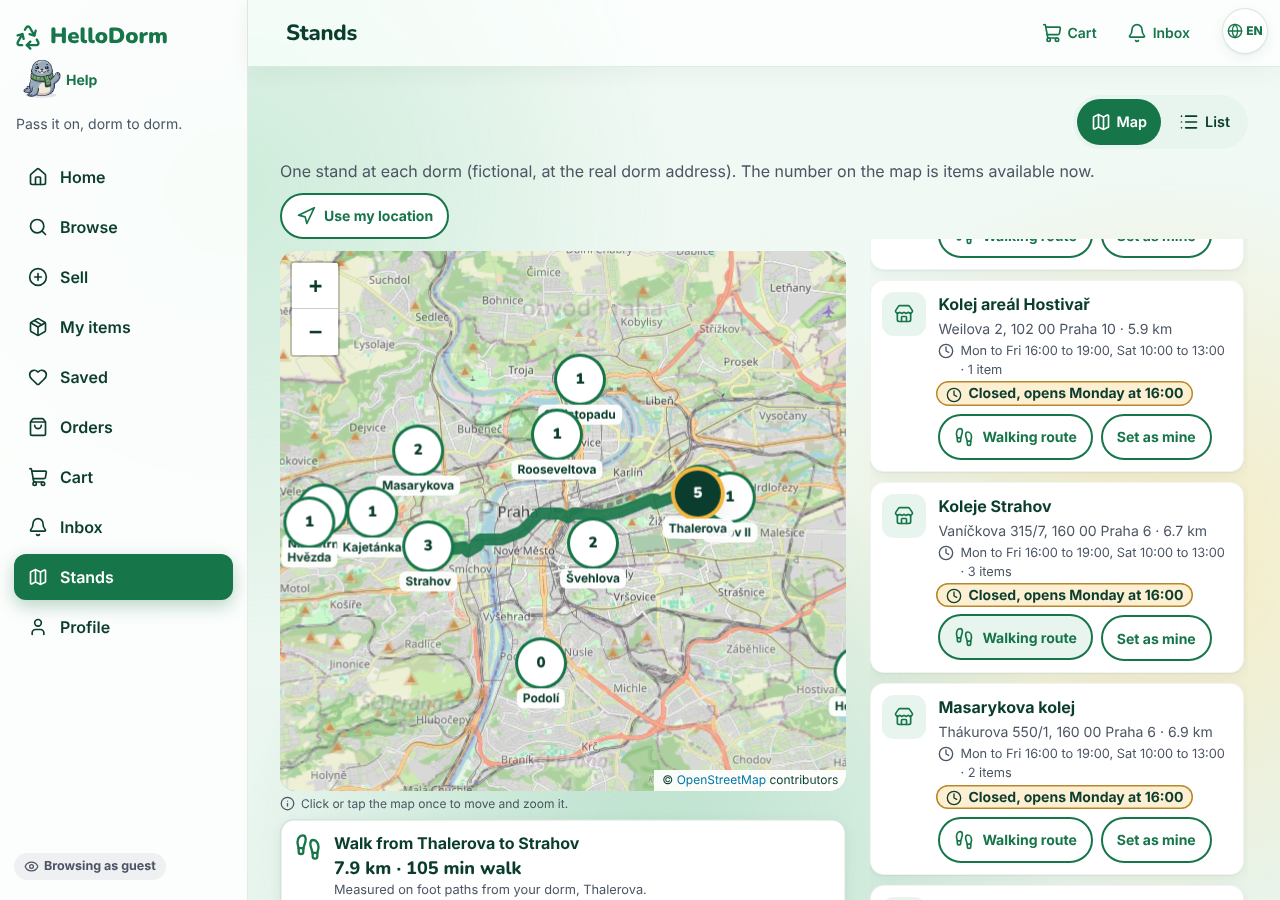
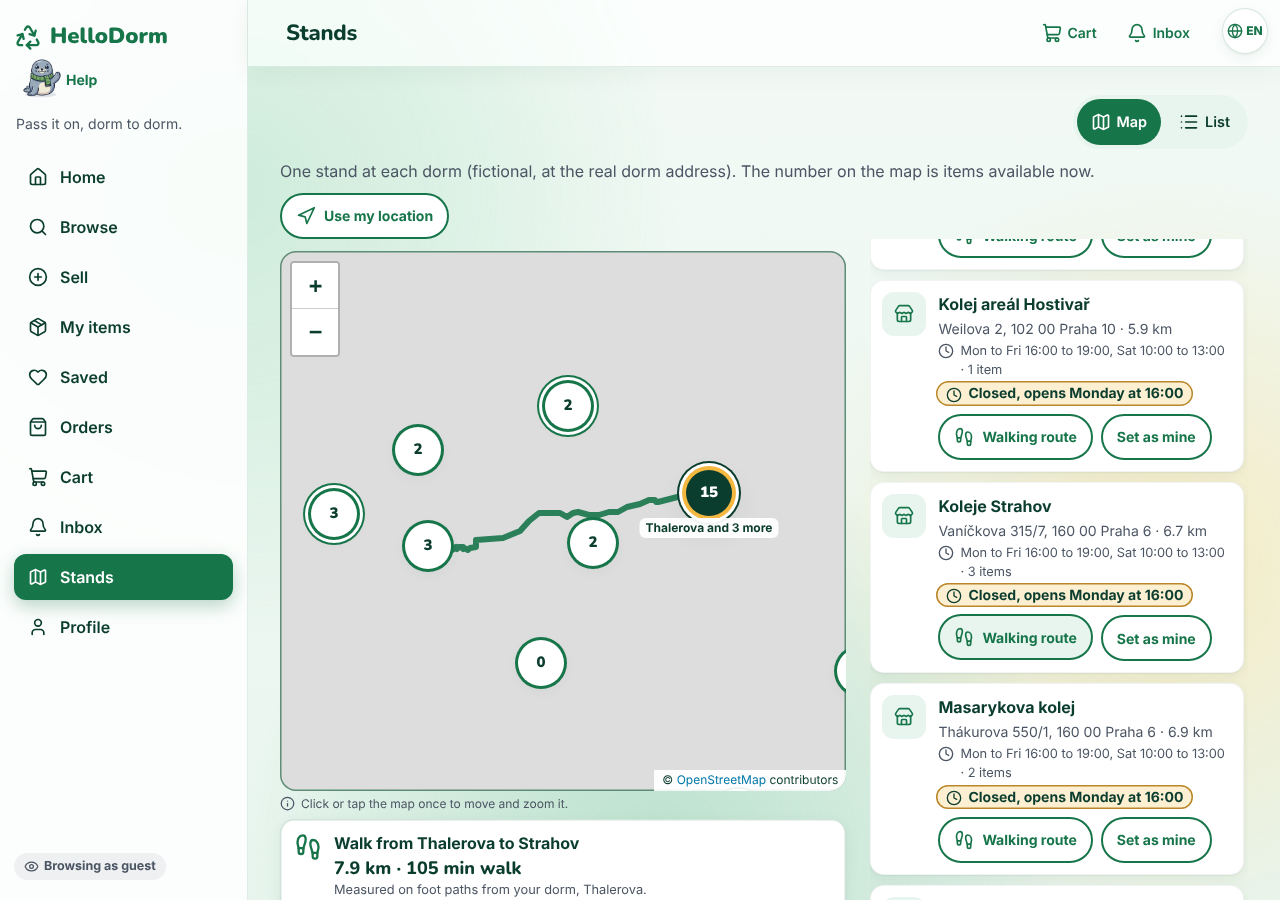
Round 5: fresh eyes fixes (pin grouping, burst behind text, hold until the stand closes), docs and test results
Reviewer scores 41 then 42 of 60 (one fix round, then stop). All checks 0; test-round5 52 of 52.

Claude-Session: https://claude.ai/code/session_012z3WjMXaMaCLVMsSRjQa6U

Changed region(s): [[0.2188, 0.28, 0.6875, 0.9022]]

diff --git a/v3/app.js b/v3/app.js
@@ -107,8 +107,16 @@ function fmtDist(m) {
 function fmtLeft(ms) {
   if (ms <= 0) return t('time_up');
   const h = Math.floor(ms / HOUR), m = Math.floor((ms % HOUR) / MIN);
-  if (h >= 24) return t('left_dh', { d: Math.floor(h / 24), h: h % 24 });
-  return t('left_hm', { h, m });
+  // v3: a number and its unit never break apart ("1 day 13 h", never "13" and "h" on two lines).
+  const nb = (x) => x.replace(/(\d) /g, '$1\u00a0');
+  if (h >= 24) return nb(t('left_dh', { d: Math.floor(h / 24), h: h % 24 }));
+  return nb(t('left_hm', { h, m }));
+}
+// v3: a reservation is held 48 hours, and always at least until the end of the next pickup window, so the hold never
+// runs out before the stand opens (fresh eyes review, 7 Nov 2026: "held 1 day 13 h" while "pickup opens in 1 day 18 h").
+function holdUntil(from = now()) {
+  const w = nextWindow(from + 1);
+  return Math.max(from + HOLD_H * HOUR, w ? w.end : 0);
 }
 function fmtAgo(ms) {
   const m = Math.max(1, Math.round(ms / MIN));
@@ -761,7 +769,7 @@ function maybeWelcome() {
     </div>
     <button class="btn ghost wide" data-act="ws-go" data-to="home">${t('ws_later')}</button>
   </div>`, 'ws-sheet');
-  if (!reduced) import('./fireworks.js').then((m) => { if (S.welcomeOpen) S.fw = m.fireworks(document.body); }).catch(() => {});
+  if (!reduced) import('./fireworks.js').then((m) => { if (S.welcomeOpen) S.fw = m.fireworks($('#modal .sheet') || document.body); }).catch(() => {});
   return true;
 }
 async function doSignin(e) {
@@ -1209,7 +1217,7 @@ async function doCheckout(arg, form, method = 'demo') {
         if (x.status === 'sold' || (x.status === 'reserved' && x.until > n && x.by !== u)) bad.push(lines[i].id);
       });
       if (bad.length) return bad;
-      lines.forEach((it) => tx.set(doc(db, 'shop', it.id), { status: 'reserved', by: u, until: n + HOLD_H * HOUR }));
+      lines.forEach((it) => tx.set(doc(db, 'shop', it.id), { status: 'reserved', by: u, until: holdUntil(n) }));
       return [];
     });
     if (taken.length) {
@@ -1226,7 +1234,7 @@ async function doCheckout(arg, form, method = 'demo') {
       const its = lines.filter((x) => x.dorm === dm).map((x) => ({ id: x.id, title: x.title, cat: x.cat, price: x.price, photoId: x.id }));
       const ref = await addDoc(collection(db, 'users', u, 'orders'), {
         group, dorm: dm, code: code('P'), items: its, total: its.reduce((s, x) => s + x.price, 0),
-        status: 'reserved', reservedAt: n, expiresAt: n + HOLD_H * HOUR,
+        status: 'reserved', reservedAt: n, expiresAt: holdUntil(n),
         paid: method === 'demo', payMethod: method, ...(method === 'demo' ? { paidAt: n } : {}),
       });
       ids.push(ref.id);
@@ -2031,7 +2039,7 @@ async function seedDemo(u, lang, guest = {}, count = true) {
   b.set(doc(collection(db, 'users', u, 'orders')), {
     group: code('G'), dorm: 'thaler', code: code('P'), total: 290,
     items: [{ id: 'demo-lamp', photoId: 'e1', title: { en: 'Reading lamp (demo order)', cs: 'Lampička na čtení (ukázková objednávka)' }, cat: 'electronics', price: 290 }],
-    status: 'reserved', reservedAt: n - 10 * HOUR, expiresAt: n + 38 * HOUR,
+    status: 'reserved', reservedAt: n - 10 * HOUR, expiresAt: Math.max(n + 38 * HOUR, (nextWindow(n + 1) || { end: 0 }).end), // demo: held at least until the next pickup window ends
   });
   const notes = collection(db, 'users', u, 'notes');
   b.set(doc(notes), { type: 'offer', p: { title: lang === 'cs' ? 'Kancelářská židle' : 'Office chair', price: 230, stand: 'thaler' }, read: false, at: n - 1 * DAY });

diff --git a/v3/stands.js b/v3/stands.js
@@ -94,12 +94,36 @@ async function initStandsMap() {
     S.liveMap = live; el.hdMap = map; // hdMap: lets the checks read the zoom level
     DORMS.forEach((d) => {
       const me = d.id === S.prof.dorm;
-      const m = L.marker([d.lat, d.lon], { icon: M.pinIcon(L, { n: standCount(d.id), me, label: esc(d.short) }), title: d.name, alt: d.name, keyboard: true, riseOnHover: true, zIndexOffset: me ? 1000 : 0 }).addTo(map);
+      const m = L.marker([d.lat, d.lon], { icon: M.pinIcon(L, { n: standCount(d.id), me, label: esc(d.short) }), title: d.name, alt: d.name, keyboard: true, riseOnHover: true, zIndexOffset: me ? 1000 : 0 });
       m.bindPopup(() => standPopup(d), { autoPanPaddingTopLeft: L.point(72, 124), autoPanPaddingBottomRight: L.point(16, 44), maxWidth: 260, minWidth: 200 });
       live.markers[d.id] = m;
     });
+    // v3 (fresh eyes review): stands closer than 64 px on screen are shown as one bubble with their total items, so pins
+    // and names never pile up; a tap on a bubble zooms in until the stands separate.
+    const layer = L.layerGroup().addTo(map);
+    const regroup = () => {
+      layer.clearLayers();
+      // At the city overview only my dorm's name shows; every name returns from zoom 13 (popups and the list always name them).
+      el.classList.toggle('z-low', map.getZoom() < 13);
+      const pts = DORMS.map((d) => ({ d, p: map.latLngToLayerPoint([d.lat, d.lon]) })), used = new Set();
+      pts.forEach((a) => {
+        if (used.has(a.d.id)) return;
+        const g = pts.filter((x) => !used.has(x.d.id) && a.p.distanceTo(x.p) < 64);
+        g.forEach((x) => used.add(x.d.id));
+        if (g.length === 1) { layer.addLayer(live.markers[a.d.id]); return; }
+        const me = g.some((x) => x.d.id === S.prof.dorm), lead = g.find((x) => x.d.id === S.prof.dorm) || g[0];
+        const n = g.reduce((sum, x) => sum + standCount(x.d.id), 0);
+        const c = L.marker([g.reduce((v, x) => v + x.d.lat, 0) / g.length, g.reduce((v, x) => v + x.d.lon, 0) / g.length], {
+          icon: M.pinIcon(L, { n, me, group: g.length, label: esc(t('group_label', { d: lead.d.short, n: g.length - 1 })) }),
+          title: g.map((x) => x.d.name).join(', '), alt: t('group_alt', { n: g.length }), keyboard: true, zIndexOffset: me ? 1000 : 0 });
+        c.on('click', () => map.fitBounds(g.map((x) => [x.d.lat, x.d.lon]), { padding: [70, 70], maxZoom: 17 }));
+        layer.addLayer(c);
+      });
+    };
+    map.on('zoomend', regroup);
     if (S.pos) L.circleMarker([S.pos.lat, S.pos.lon], { radius: 9, color: '#0B3D2E', weight: 3, fillColor: '#F4B740', fillOpacity: 1 }).addTo(map).bindTooltip(t('you_are_here'));
     map.fitBounds(DORMS.map((d) => [d.lat, d.lon]), { padding: [28, 28] });
+    regroup();
     if (S.routeTo) { const id = S.routeTo; S.routeTo = null; routeTo(dormById(id), $('#routePanel'), live); }
   } catch (e) { fallback(); }
 }

diff --git a/v3/fireworks.js b/v3/fireworks.js
@@ -5,23 +5,27 @@
 const COLOURS = ['#17754A', '#2E9A66', '#0F5C39', '#7CC9A0', '#B8E3CB', '#F4B740'];
 export const MAX_MS = 2400;
 
+// host: where the burst is drawn. Inside the welcome card (v3 fresh eyes review) the canvas sits BEHIND the text,
+// so the words stay readable during the burst; with document.body it covers the screen.
 export function fireworks(host = document.body) {
   const c = document.createElement('canvas');
-  c.className = 'fw-canvas';
+  const inBox = host !== document.body;
+  c.className = 'fw-canvas' + (inBox ? ' in-box' : '');
+  const W = () => (inBox ? host.clientWidth : innerWidth), Hh = () => (inBox ? host.clientHeight : innerHeight);
   c.setAttribute('aria-hidden', 'true');
   host.appendChild(c);
   const ctx = c.getContext('2d');
   const dpr = Math.min(2, window.devicePixelRatio || 1);
-  const size = () => { c.width = innerWidth * dpr; c.height = innerHeight * dpr; c.style.width = innerWidth + 'px'; c.style.height = innerHeight + 'px'; ctx.setTransform(dpr, 0, 0, dpr, 0, 0); };
+  const size = () => { c.width = W() * dpr; c.height = Hh() * dpr; c.style.width = W() + 'px'; c.style.height = Hh() + 'px'; ctx.setTransform(dpr, 0, 0, dpr, 0, 0); };
   size();
   const parts = [];
   // Three bursts, a short time apart, around the top half of the screen.
-  const bursts = [[0.5, 0.32, 0], [0.24, 0.24, 260], [0.76, 0.26, 480]];
+  const bursts = inBox ? [[0.5, 0.16, 0], [0.18, 0.12, 260], [0.82, 0.14, 480]] : [[0.5, 0.32, 0], [0.24, 0.24, 260], [0.76, 0.26, 480]];
   const t0 = performance.now();
   const fired = new Set();
   let raf = 0, done = false;
   function fire(fx, fy) {
-    const x = innerWidth * fx, y = innerHeight * fy, n = 46;
+    const x = W() * fx, y = Hh() * fy, n = 46;
     for (let i = 0; i < n; i++) {
       const a = (Math.PI * 2 * i) / n + Math.random() * 0.2, v = 2.2 + Math.random() * 3.2;
       parts.push({ x, y, vx: Math.cos(a) * v, vy: Math.sin(a) * v, life: 1, r: 2 + Math.random() * 2.5, col: COLOURS[(Math.random() * COLOURS.length) | 0], leaf: Math.random() < 0.3, rot: Math.random() * 6 });
@@ -30,7 +34,7 @@ export function fireworks(host = document.body) {
   function frame(now) {
     const el = now - t0;
     bursts.forEach(([fx, fy, at], i) => { if (el >= at && !fired.has(i)) { fired.add(i); fire(fx, fy); } });
-    ctx.clearRect(0, 0, innerWidth, innerHeight);
+    ctx.clearRect(0, 0, W(), Hh());
     for (const p of parts) {
       p.x += p.vx; p.y += p.vy; p.vy += 0.06; p.vx *= 0.985; p.vy *= 0.985; p.life -= 0.012; p.rot += 0.08;
       if (p.life <= 0) continue;

diff --git a/v3/texts.js b/v3/texts.js
@@ -735,6 +735,8 @@ export const TEXTS = {
   map_credit_route: { en: 'Routing: FOSSGIS OSRM', cs: 'Trasy: FOSSGIS OSRM' },
   map_fallback:     { en: 'The street map could not load right now, so this is our simple drawn map (north at the top, the blue line is the Vltava).', cs: 'Mapa ulic se teď nenačetla, proto je tu naše jednoduchá kreslená mapa (sever nahoře, modrá čára je Vltava).' },
   walk_route:       { en: 'Walking route', cs: 'Trasa pěšky' },
+  group_label:      { en: '{d} and {n} more', cs: '{d} a další {n}' },
+  group_alt:        { en: '{n} stands close together, tap to zoom in', cs: '{n|stánek|stánky|stánků} blízko sebe, klepni pro přiblížení' },
   see_items:        { en: 'See items', cs: 'Zobrazit věci' },
   route_hint:       { en: 'Tap Walking route on a stand to see the way from your dorm, with distance and minutes.', cs: 'Klepni na Trasa pěšky u stánku a uvidíš cestu ze své koleje, se vzdáleností a minutami.' },
   route_finding:    { en: 'Finding the walking route from {a} to {b}…', cs: 'Hledám trasu pěšky z {a} do {b}…' },

diff --git a/v3/styles.css b/v3/styles.css
@@ -1100,3 +1100,11 @@ body.modal-open { position: fixed; left: 0; right: 0; overflow: hidden; width: 1
 .acct-btns .btn > span { min-width: 0; }
 .set-row label { min-width: 0; flex-wrap: wrap; }
 .set-row label input { min-width: 150px; min-height: 46px; }
+/* v3 (fresh eyes review): a bubble for nearby stands has a second ring, so it reads as "several". */
+.lpin.group { box-shadow: 0 0 0 3px var(--green), 0 0 0 6px var(--white), 0 0 0 8px var(--green), var(--sh-1); }
+.lpin.me.group { box-shadow: 0 0 0 4px var(--sun), 0 0 0 7px var(--white), 0 0 0 9px var(--ink), var(--sh-2); }
+/* v3 (fresh eyes review): the burst is drawn inside the welcome card, behind its text. */
+.fw-canvas.in-box { position: absolute; inset: 0; z-index: 0; border-radius: inherit; }
+.ws-sheet .sheet-body { position: relative; z-index: 1; }
+.real-map.z-low .lpin-l { display: none; }
+.real-map.z-low .lpin.me + .lpin-l { display: block; }

diff --git a/v3/map.js b/v3/map.js
@@ -55,10 +55,11 @@ export async function makeMap(el, { center, zoom = 12, onFail, hint } = {}) {
 }
 
 // A stand pin: a round label with the number of items waiting there; the user's own dorm is larger and dark.
-export function pinIcon(L, { n, me, label }) {
+// group = how many stands one bubble stands for (nearby stands at a low zoom); drawn with a second ring.
+export function pinIcon(L, { n, me, label, group = 1 }) {
   return L.divIcon({
     className: 'lpin-wrap',
-    html: `<span class="lpin ${me ? 'me' : ''}"><b>${n}</b></span><span class="lpin-l">${label}</span>`,
+    html: `<span class="lpin ${me ? 'me' : ''} ${group > 1 ? 'group' : ''}" data-stands="${group}"><b>${n}</b></span><span class="lpin-l">${label}</span>`,
     iconSize: [46, 46], iconAnchor: [23, 23], popupAnchor: [0, -24],
   });
 }

diff --git a/tools/test-round5.py b/tools/test-round5.py
@@ -95,9 +95,14 @@ with sync_playwright() as pw:
     ctx = new_ctx(b, 1280, 900); p = open_app(ctx)
     pick_dorm(p, 'thaler'); go(p, 'stands', 4500)
     tiles = p.eval_on_selector('#standsMap', 'e => +(e.dataset.tiles || 0)')
-    pins = p.locator('#standsMap .lpin').count(); me = p.locator('#standsMap .lpin.me').count()
+    pins = sum(int(x) for x in p.eval_on_selector_all('#standsMap .lpin', 'els => els.map((e) => e.dataset.stands)')); bubbles = p.locator('#standsMap .lpin').count(); me = p.locator('#standsMap .lpin.me').count()
     nums = p.locator('#standsMap .lpin b').all_inner_texts()
-    rec('Stands shows a real street map with all pins', '16 stand pins, my dorm highlighted, item numbers, tiles loaded', f'{pins} pins, {me} highlighted, numbers {",".join(nums)}, {tiles} tiles', pins == 16 and me == 1 and tiles > 0 and all(n.isdigit() for n in nums))
+    rec('Stands shows a real street map with all pins', '16 stands on pins (nearby stands grouped in one bubble), my dorm highlighted, item numbers, tiles loaded', f'{pins} stands on {bubbles} pins, {me} highlighted, numbers {",".join(nums)}, {tiles} tiles', pins == 16 and me == 1 and tiles > 0 and all(n.isdigit() for n in nums))
+    # pins and their names must not overlap each other at the starting zoom
+    ov = p.evaluate('''() => { const r = [...document.querySelectorAll('#standsMap .lpin, #standsMap .lpin-l')].map((e) => e.getBoundingClientRect()); let n = 0;
+      for (let i = 0; i < r.length; i++) for (let j = i + 1; j < r.length; j++) { const a = r[i], b = r[j]; if (a.left < b.right - 1 && a.right > b.left + 1 && a.top < b.bottom - 1 && a.bottom > b.top + 1) n++; } return n; }''')
+    pin_pairs = p.evaluate('''() => { const ws = [...document.querySelectorAll('#standsMap .lpin-wrap')]; let n = 0; ws.forEach((w) => { const a = w.querySelector('.lpin').getBoundingClientRect(), l = w.querySelector('.lpin-l').getBoundingClientRect(); if (a.bottom > l.top + 1) n++; }); return n; }''')
+    rec('Map pins and names do not overlap', '0 overlapping pins or names (own label below its pin)', f'{ov - 0} overlapping boxes', ov == 0)
     credit = p.locator('.map-credit').inner_text() + ' ' + p.locator('.leaflet-control-attribution').inner_text()
     rec('Map credits', '"© OpenStreetMap contributors" and "Routing: FOSSGIS OSRM"', credit.replace('\n', ' '), '© OpenStreetMap contributors' in credit and 'Routing: FOSSGIS OSRM' in credit)
     z0 = p.evaluate('document.querySelector("#standsMap").hdMap.getZoom()')
@@ -107,7 +112,7 @@ with sync_playwright() as pw:
     p.mouse.click(cx + 3, cy + 120); p.wait_for_timeout(300); p.mouse.wheel(0, -400); p.wait_for_timeout(900)
     z2 = p.evaluate('document.querySelector("#standsMap").hdMap.getZoom()')
     rec('Mouse wheel zooms only after a click', 'zoom same before the click, changes after', f'zoom {z0} -> {z1} before click, {z2} after', z0 == z1 and z2 != z1)
-    p.evaluate('document.querySelector("#standsMap").hdMap.fitBounds([[50.01,14.34],[50.12,14.54]])'); p.wait_for_timeout(600)
+    p.evaluate('document.querySelector("#standsMap").hdMap.setZoom(16)'); p.wait_for_timeout(900)
     # open a popup on every pin in turn; no button or link of the map may overlap the open popup
     worst = 0
     for i in range(16):

diff --git a/tools/capture-round5.py b/tools/capture-round5.py
@@ -33,11 +33,14 @@ with sync_playwright() as pw:
         go('item/Lnew'); shot('listing-photo-label')
         go('item/k4'); p.click('[data-act=pbox-route]'); p.wait_for_selector('.pmap .route-res', timeout=15000); p.wait_for_timeout(800)
         p.locator('.pmap').scroll_into_view_if_needed(); shot('pickup-box-route')
-        for id_ in ['k1', 'k4', 'f3', 'e5']:
+        # the kettle (k1) was put in the cart before someone else bought it
+        p.evaluate('(() => { const g = JSON.parse(localStorage.getItem("hd_guest") || "{}"); g.cart = [{ id: "k1", on: true }]; localStorage.setItem("hd_guest", JSON.stringify(g)); })()')
+        p.reload(); p.wait_for_selector('html[data-app=ready]'); p.wait_for_timeout(500)
+        for id_ in ['k1', 'k4', 'f3', 'e3']:  # k1 is sold (Swap), the rest wait at Strahov and Thalerova (2 stands)
             go('item/' + id_, 350)
             if p.locator('.cta-row [data-act=cart-add]').count(): p.click('.cta-row [data-act=cart-add]'); p.wait_for_timeout(250)
-        st = json.loads(p.evaluate('localStorage.getItem("fakefs")'));
-        go('cart', 800); shot('cart-best-stand-swap', full=True)
+        go('cart', 800); p.locator('#bestStand').scroll_into_view_if_needed(); shot('cart-best-stand')
+        p.locator('.swap').first.scroll_into_view_if_needed(); p.wait_for_timeout(200); shot('cart-swap')
         email = f'tester-cap-{W}-{int(time.time())}@hellodorm-demo.test'
         go('signup', 400); p.fill('#fSignup input[name=name]', 'Jana Novakova'); p.fill('#fSignup input[name=email]', email); p.fill('#fSignup input[name=password]', 'madeup123')
         p.click('#fSignup button[type=submit]'); p.wait_for_timeout(700); shot('welcome-scene-burst'); p.wait_for_timeout(2600); shot('welcome-scene')

diff --git a/HOW-IT-WORKS.md b/HOW-IT-WORKS.md
@@ -355,4 +355,18 @@ Measured on the build machine, Lighthouse 12.8.2, mobile preset, 3 runs each, lo
 
 Two cleanest runs: v2 78 and 78, v3 86 and 80. The difference between 86 and 80 is a layout shift (0.077 or 0.161: the content moves once when the loading splash is replaced by Home), which happens the same way in v2 and is left for a later round.
 
+**Fresh eyes review.** A separate AI reviewer saw only 28 screenshots (`tools/capture-round5.py`) and the owner's bars, never the code or our reasoning, and scored 6 criteria from 1 to 10. Then the lowest scoring points were fixed once and a new reviewer scored once more, and the loop stopped there (owner's rule).
+
+| Criterion | First score | Rescore |
+|---|---|---|
+| Polish | 6 | 7 |
+| Depth | 8 | 8 |
+| Motion | 6 | 6 |
+| Clarity | 6 | 6 |
+| Consistency | 7 | 7 |
+| Delight | 8 | 8 |
+| Total | 41 of 60 | 42 of 60 |
+
+Fixed after the first review: map pins and names piled up at city zoom (now nearby stands merge into one bubble with a double ring and the total items, a tap zooms in, and only your dorm's name shows at the overview: 0 overlaps measured); the confetti flew over the welcome text (now drawn inside the card, behind the words); a pickup hold could end before the stand opened (now 48 hours and always until the end of the next pickup window); "1 day 13 h" could break before "h" (now kept together). Two findings were faults of the screenshot script, not the app (a floating header in full page shots; a cart with only one stand), and the script was corrected. Still open from the rescore, for a later round: the sticky Reserve bar covers the edge of a button below the pickup box on phones; the cart's Swap panel is narrow on phones; the shop icon on the pickup code sits apart from its text on the laptop; "your dorm" and "Your dorm" are written two ways; the phone tab bar highlights nothing on Cart.
+
 **New checks.** `tools/test-round5.py` runs every round 5 test on the stand-in database (section 11) and writes `review/round5/results.md`. `tools/check-v3-states.py` runs the contrast, readable, tap (46 px), icon contrast and sideways overflow checks on every main screen and every new state, in English and Czech, at 320, 390 and 1280 px.

diff --git a/review/round5/results.md b/review/round5/results.md
@@ -11,12 +11,13 @@
 | Home search text arrives in Browse | Browse shows "kettle" and the kettle | /browse, box 'kettle', ['Electric kettle, 1.7 L'] | PASS |
 | Map code not loaded on Home (network list) | 0 requests for map.js, Leaflet, tiles or routes | 32 requests on Home, 0 map requests | PASS |
 | Map code loads when Stands opens | map.js, leaflet.js, leaflet.css requested | 3 files | PASS |
-| Stands shows a real street map with all pins | 16 stand pins, my dorm highlighted, item numbers, tiles loaded | 16 pins, 1 highlighted, numbers 5,4,5,1,1,1,1,1,1,1,2,1,1,3,2,0, 12 tiles | PASS |
+| Stands shows a real street map with all pins | 16 stands on pins (nearby stands grouped in one bubble), my dorm highlighted, item numbers, tiles loaded | 16 stands on 6 pins, 1 highlighted, numbers 17,2,2,8,1,0, 12 tiles | PASS |
+| Map pins and names do not overlap | 0 overlapping pins or names (own label below its pin) | 0 overlapping boxes | PASS |
 | Map credits | "© OpenStreetMap contributors" and "Routing: FOSSGIS OSRM" | Map: © OpenStreetMap contributors · Routing: FOSSGIS OSRM · Leaflet © OpenStreetMap contributors | PASS |
 | Mouse wheel zooms only after a click | zoom same before the click, changes after | zoom 11 -> 11 before click, 15 after | PASS |
 | No button on top of an open popup | 0 overlaps over 16 popups | 0 overlaps (worst popup) | PASS |
 | Walking route Thalerova to Strahov (live FOSSGIS service) | line on the map with km and minutes | 7.9 km, 105 min, 2 line drawn, 0.9 s, text "7.9 km · 105 min walk" | PASS |
-| At most 1 route request per second | gap between requests at least 1 s | 2 requests, gaps [1.0] | PASS |
+| At most 1 route request per second | gap between requests at least 1 s | 2 requests, gaps [1.01] | PASS |
 | Route service does not answer | "Route not available right now" and an Open in Google Maps link | Route not available right now / https://www.google.com/maps/dir/?api=1&origin=50.09143,14.48 | PASS |
 | Walking route in the item pickup box | map and route panel open inside the pickup box | map 1, panel 1 | PASS |
 | Fallback when Leaflet cannot load | drawn map shown, Stands not blank | drawn map 1, note 1 | PASS |

diff --git a/AI-LOG.md b/AI-LOG.md
@@ -36,6 +36,7 @@ For the assignment's AI statement. One line per correction: date | what the AI (
 | 2026-11-07 | v2 My items overflowed 17 px sideways at 320 px (a long status pill that could not wrap). | Caught by the new overflow check: the pill wraps in v3, 0 px. |
 | 2026-11-07 | "New items at my dorm since last time" could not be true with 30 sample items that never change. | Claude Code's decision, for the owner to confirm: managers can put bought or donated items on sale (`listings`), which needs the new rules block published after the merge. |
 | 2026-11-07 | v3 Home with the round 5 features measured 0.2 s slower than v2 in Lighthouse (largest paint 5.7 to 5.9 s against 5.5 to 5.7 s); a first fix (preloading app.js) made the first paint worse and was removed. | Owner's bar: Home not slower than v2. Found that since 20 October the font list named one variable font file 5 times (Inter) and 3 times (Nunito), downloaded each time; v3 loads each once (435 KB to 168 KB of fonts), and Manager mode and Stands load on first use. Largest paint now 4.0 s against v2's 5.6 s. |
+| 2026-11-07 | Round 5 build: map pins and names overlapped at city zoom, the welcome confetti covered the heading, and a demo pickup hold ended 5 hours before the stand opened. | Fresh eyes reviewer (screenshots only): pins grouped by distance with names hidden at the overview, burst drawn behind the text, holds last until the end of the next pickup window. Scores 41 to 42 of 60 after one fix round. |
 
 ## AI generated images (for the AI statement)
 - Pip the seal (5 poses) and the dorm area illustrations for Jarov, Rooseveltova and Hostivař were generated with Google Gemini on 2026-10-20. Prompts: `IMAGE-PROMPTS.md`. Shown in the app's About screen as "Illustrations generated with Google Gemini".
